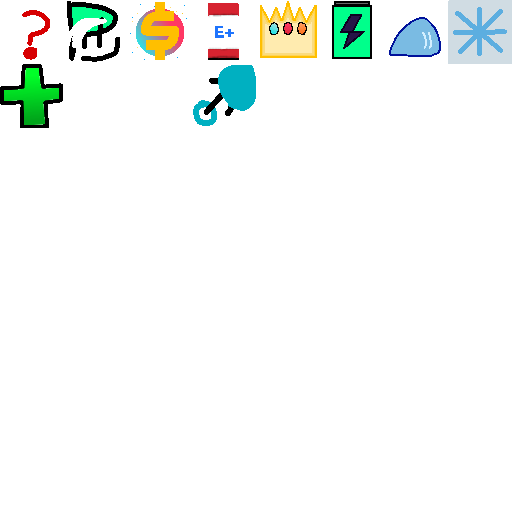
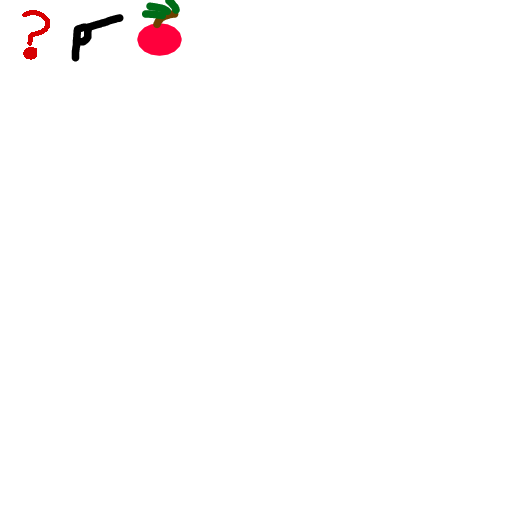
add basic inventory UI setup

diff --git a/Entities/Player/InventorySlot.cs b/Entities/Player/InventorySlot.cs
@@ -1,0 +1,46 @@
+using Godot;
+
+public partial class InventorySlot : PanelContainer {
+    private TextureRect _Icon;
+    private Label _Uses;
+
+    private static StyleBoxFlat _normalStyle;
+    private static StyleBoxFlat _selectedStyle;
+
+    public override void _Ready() {
+        _Icon = GetNode<TextureRect>("MarginContainer/Icon");
+        _Uses = GetNode<Label>("MarginContainer/Uses");
+
+        if (_normalStyle == null) {
+            _normalStyle = new StyleBoxFlat();
+            _normalStyle.BgColor     = new Color(0, 0, 0, 0.5f);
+            _normalStyle.BorderColor = new Color(1, 1, 1, 0.3f);
+            _normalStyle.SetBorderWidthAll(2);
+        }
+        if (_selectedStyle == null) {
+            _selectedStyle = new StyleBoxFlat();
+            _selectedStyle.BgColor     = new Color(1, 1, 1, 0.2f);
+            _selectedStyle.BorderColor = new Color(1, 1, 1, 0.9f);
+            _selectedStyle.SetBorderWidthAll(2);
+        }
+        AddThemeStyleboxOverride("panel", _normalStyle);
+    }
+
+    public void SetItem(ItemData item) {
+        if (item == null) {
+            _Icon.Texture = null;
+            _Uses.Text    = "";
+            return;
+        }
+        _Icon.Texture = item.Icon;
+        _Uses.Text = item switch {
+            PistolData gun     => $"{gun.CurrentAmmo}/{gun.MaxAmmo}",
+            AppleData apple => $"{apple.HealsRemaining}",
+            _               => ""
+        };
+    }
+
+    public void SetSelected(bool selected) {
+        AddThemeStyleboxOverride("panel", selected ? _selectedStyle : _normalStyle);
+    }
+}

diff --git a/Entities/Player/PlayerHud.cs b/Entities/Player/PlayerHud.cs
@@ -1,10 +1,33 @@
 using Godot;
-using System;
+using System.Collections.Generic;
 
 public partial class PlayerHud : CanvasLayer {
 	private TextureRect _CrosshairTexture;
+    private List<InventorySlot> _Slots;
 
     public override void _Ready() {
         _CrosshairTexture = GetNode<TextureRect>("Control/CrosshairContainer/CrosshairTexture");
+        _Slots = new List<InventorySlot>();
+
+        for (int i = 1; i <= 5; i++) {
+            _Slots.Add(GetNode<InventorySlot>($"Control/MarginContainer/HBoxContainer/InventorySlot{i}"));
+        }
+        
     }
-}
+
+        public void Setup(PlayerInventory inventory) {
+            inventory.SlotChanged         += OnSlotChanged;
+            inventory.SelectedSlotChanged += OnSelectedSlotChanged;
+        }
+
+        private void OnSlotChanged(int slot, ItemData item) {
+            _Slots[slot].SetItem(item);
+        }
+
+        private void OnSelectedSlotChanged(int slot) {
+            for (int i = 0; i < _Slots.Count; i++) {
+                _Slots[i].SetSelected(i == slot);
+            }
+        }
+    }
+    

diff --git a/Entities/Items/ItemData.cs b/Entities/Items/ItemData.cs
@@ -3,8 +3,16 @@ using System;
 
 public partial class ItemData {
 	public string Name = "ITEM";
-	public Texture2D Icon = null;
+	public Texture2D Icon = GetIcon(new Vector2I(0,0));
 	public string Description = "";
 	public virtual string HeldScene   => null;
 	public virtual string PickupScene => null;
+	private static Texture2D _atlas;
+	private static Texture2D Atlas => _atlas ??= GD.Load<Texture2D>("res://Assets/ItemAtlas.png");
+	protected static AtlasTexture GetIcon(Vector2I gridPosition) {
+		AtlasTexture icon = new AtlasTexture();
+		icon.Atlas  = Atlas;
+		icon.Region = gridPosition.GetIconRegionFromVectorID();
+		return icon;
+	}
 }

diff --git a/Entities/Player/Player.cs b/Entities/Player/Player.cs
@@ -164,8 +164,9 @@ public partial class Player : CharacterBody3D {
 	}
 
 	private void SetupHUD() {
-		CanvasLayer playerHud = (CanvasLayer) GD.Load<PackedScene>(UIDS.PlayerHud).Instantiate();
+		PlayerHud playerHud = (PlayerHud) GD.Load<PackedScene>(UIDS.PlayerHud).Instantiate();
 		AddChild(playerHud);
+		playerHud.Setup(Inventory);
 	}
 
 	private void HandleMouseLook(InputEvent @event) {

diff --git a/Entities/Items/Apple/AppleData.cs b/Entities/Items/Apple/AppleData.cs
@@ -10,6 +10,7 @@ public partial class AppleData : ItemData {
 
 	public AppleData() {
 		Name = "Apple";
+        Icon = GetIcon(new Vector2I(2,0));
 	}
 	public bool CanHeal() => HealsRemaining > 0;
 

diff --git a/Entities/Items/Pistol/PistolData.cs b/Entities/Items/Pistol/PistolData.cs
@@ -8,5 +8,6 @@ public class PistolData : ItemData {
 	public PistolData() {
 		Name = "Pistol";
 		CurrentAmmo = MaxAmmo;
+		Icon = GetIcon(new Godot.Vector2I(1,0));
 	}
 }